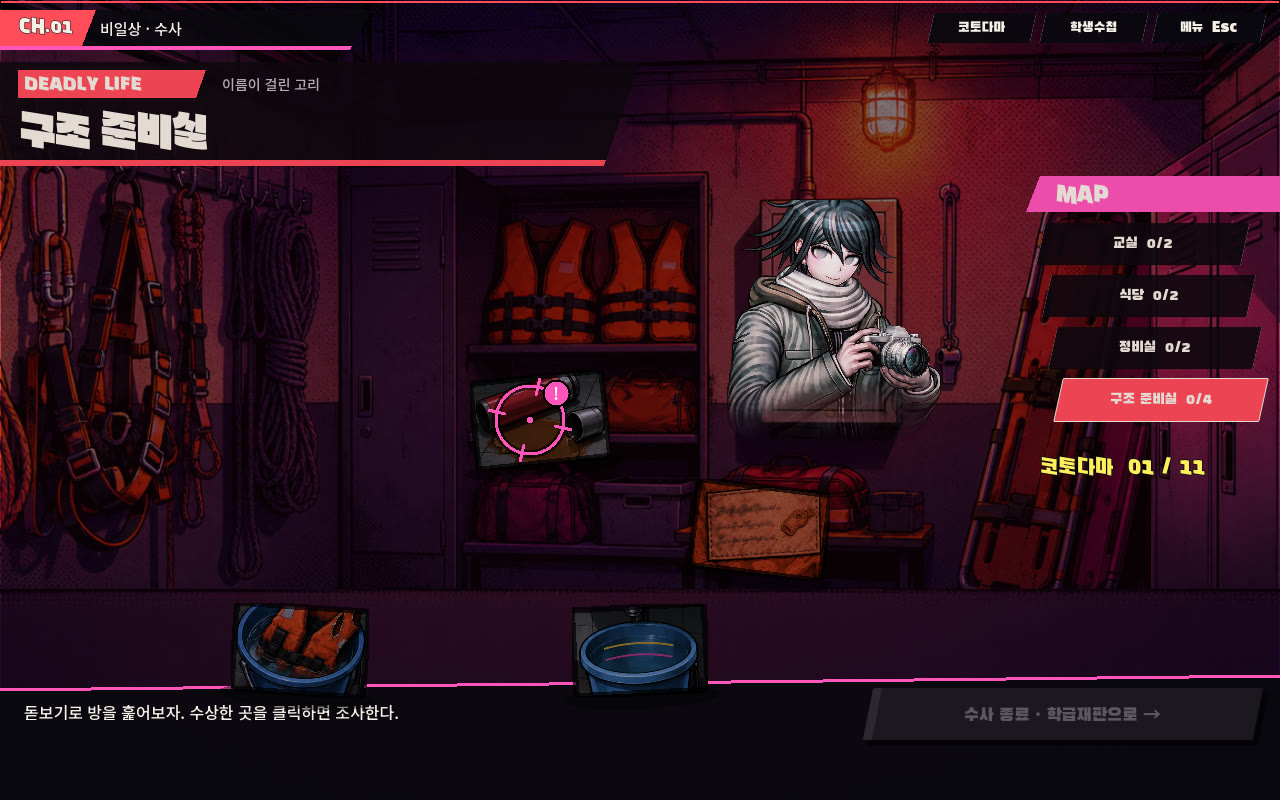
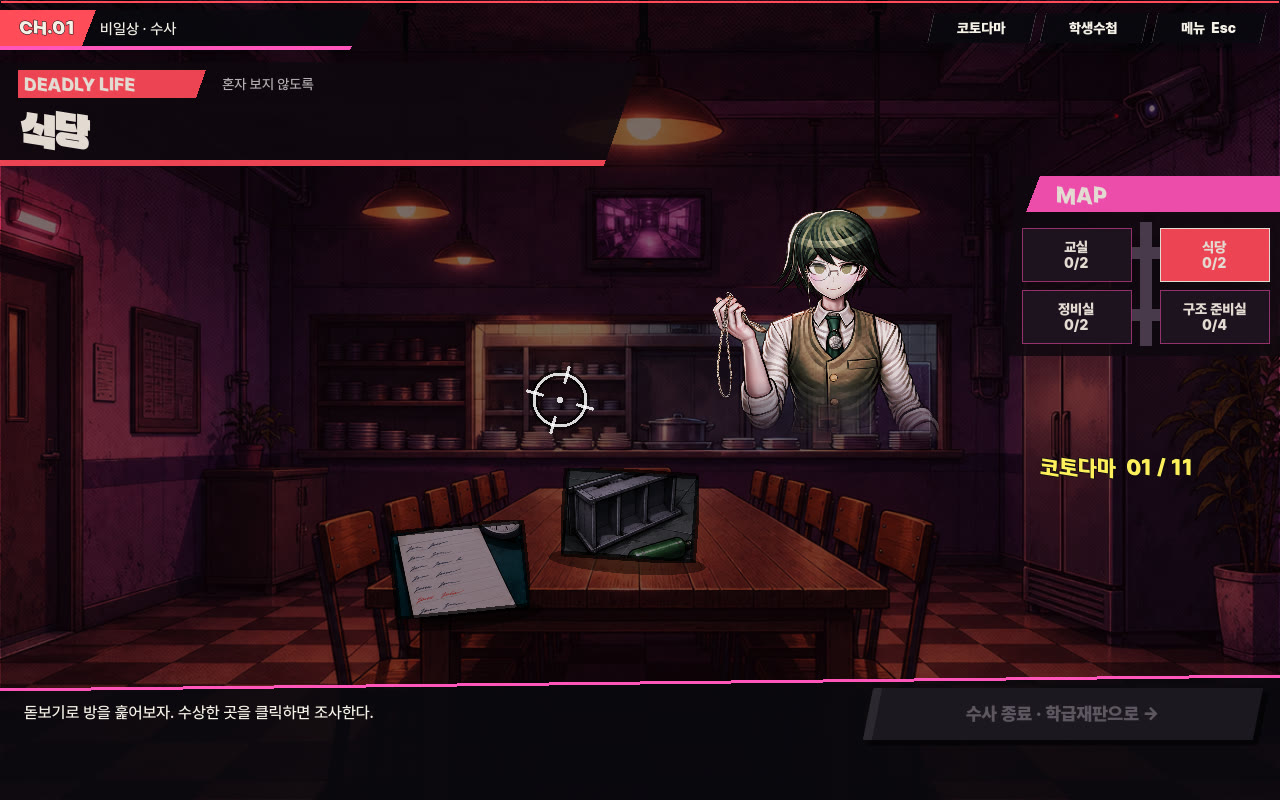
Describe v1.2.2: explored daily rooms, tone-lettered debate, new typefaces
New pictures taken from the current game, and the notices for the two added
typefaces.

diff --git a/README.md b/README.md
@@ -34,7 +34,7 @@
 
 | | |
 |---|---|
-| 분량 | 프롤로그 + 5개 장, 대사 약 8,200줄 |
+| 분량 | 프롤로그 + 5개 장, 대사 약 8,300줄 |
 | 등장인물 | 초고교급 신입생 12명과 펭 교감 |
 | 음성 | 학급재판 전체와 펭 교감의 모든 대사 (일본어 음성, 한국어 자막) |
 | 음악 | 장면별 15곡 |
@@ -43,8 +43,9 @@
 
 ### 일상과 자유시간
 
-합숙동을 돌아다니며 동급생과 이야기합니다. 자유시간에 같은 학생과 다섯 번을 보내면 그 학생의 숨겨진 이야기를 듣고, 학급재판에서 쓸 수 있는 스킬을 얻습니다.
+합숙동의 방을 돌아다니며, 방 안에 서 있는 동급생에게 조준경을 맞춰 말을 겁니다. 방의 물건을 살펴보면 후미노의 생각을 들을 수 있습니다. 자유시간에 같은 학생과 다섯 번을 보내면 그 학생의 숨겨진 이야기를 듣고, 학급재판에서 쓸 수 있는 스킬을 얻습니다.
 
+![일상](screenshots/09-room.jpg)
 ![자유시간](screenshots/07-freetime.jpg)
 
 ### 수사
@@ -56,7 +57,7 @@
 
 ### 학급재판
 
-- **논스톱 토론**: 흘러가는 발언 속에서 기록과 어긋나는 약점을 코토다마로 쏩니다. 시간 제한은 없고, 발언이 한 바퀴 돌면 처음부터 다시 들을 수 있습니다.
+- **논스톱 토론**: 흘러가는 발언 속에서 기록과 어긋나는 약점을 코토다마로 쏩니다. 발언은 말투에 따라 다르게 나타나고 움직입니다. 시간 제한은 없고, 발언이 한 바퀴 돌면 처음부터 다시 들을 수 있습니다.
 - **행맨즈 갬빗**: 질문의 답이 되는 말을, 화면 안쪽에서 날아오는 글자를 순서대로 쏴서 완성합니다.
 - **반론 쇼다운**: 결론에 맞서는 상대의 주장을 베어 넘기고, 약점을 알맞은 코토다마 칼날로 끊습니다.
 - **클라이맥스 추리**: 사건의 전말을 만화 칸에 순서대로 채웁니다.
@@ -100,7 +101,8 @@
 ## 사용한 것
 
 - 엔진: [Godot Engine 4.7.2](https://godotengine.org) (MIT)
-- 글꼴: Noto Sans KR, Black Han Sans, Gasoek One, Do Hyeon (SIL Open Font License)
+- 글꼴: Pretendard, Noto Sans KR, Gasoek One, Black Han Sans, Do Hyeon (SIL Open Font License)
+- 글꼴: 던파 연단된 칼날 (㈜ 네오플, 네오플 글꼴 라이선스. 수정 없이 배포된 형태 그대로 포함)
 
 라이선스 전문은 [licenses](licenses) 폴더에 있습니다.
 
